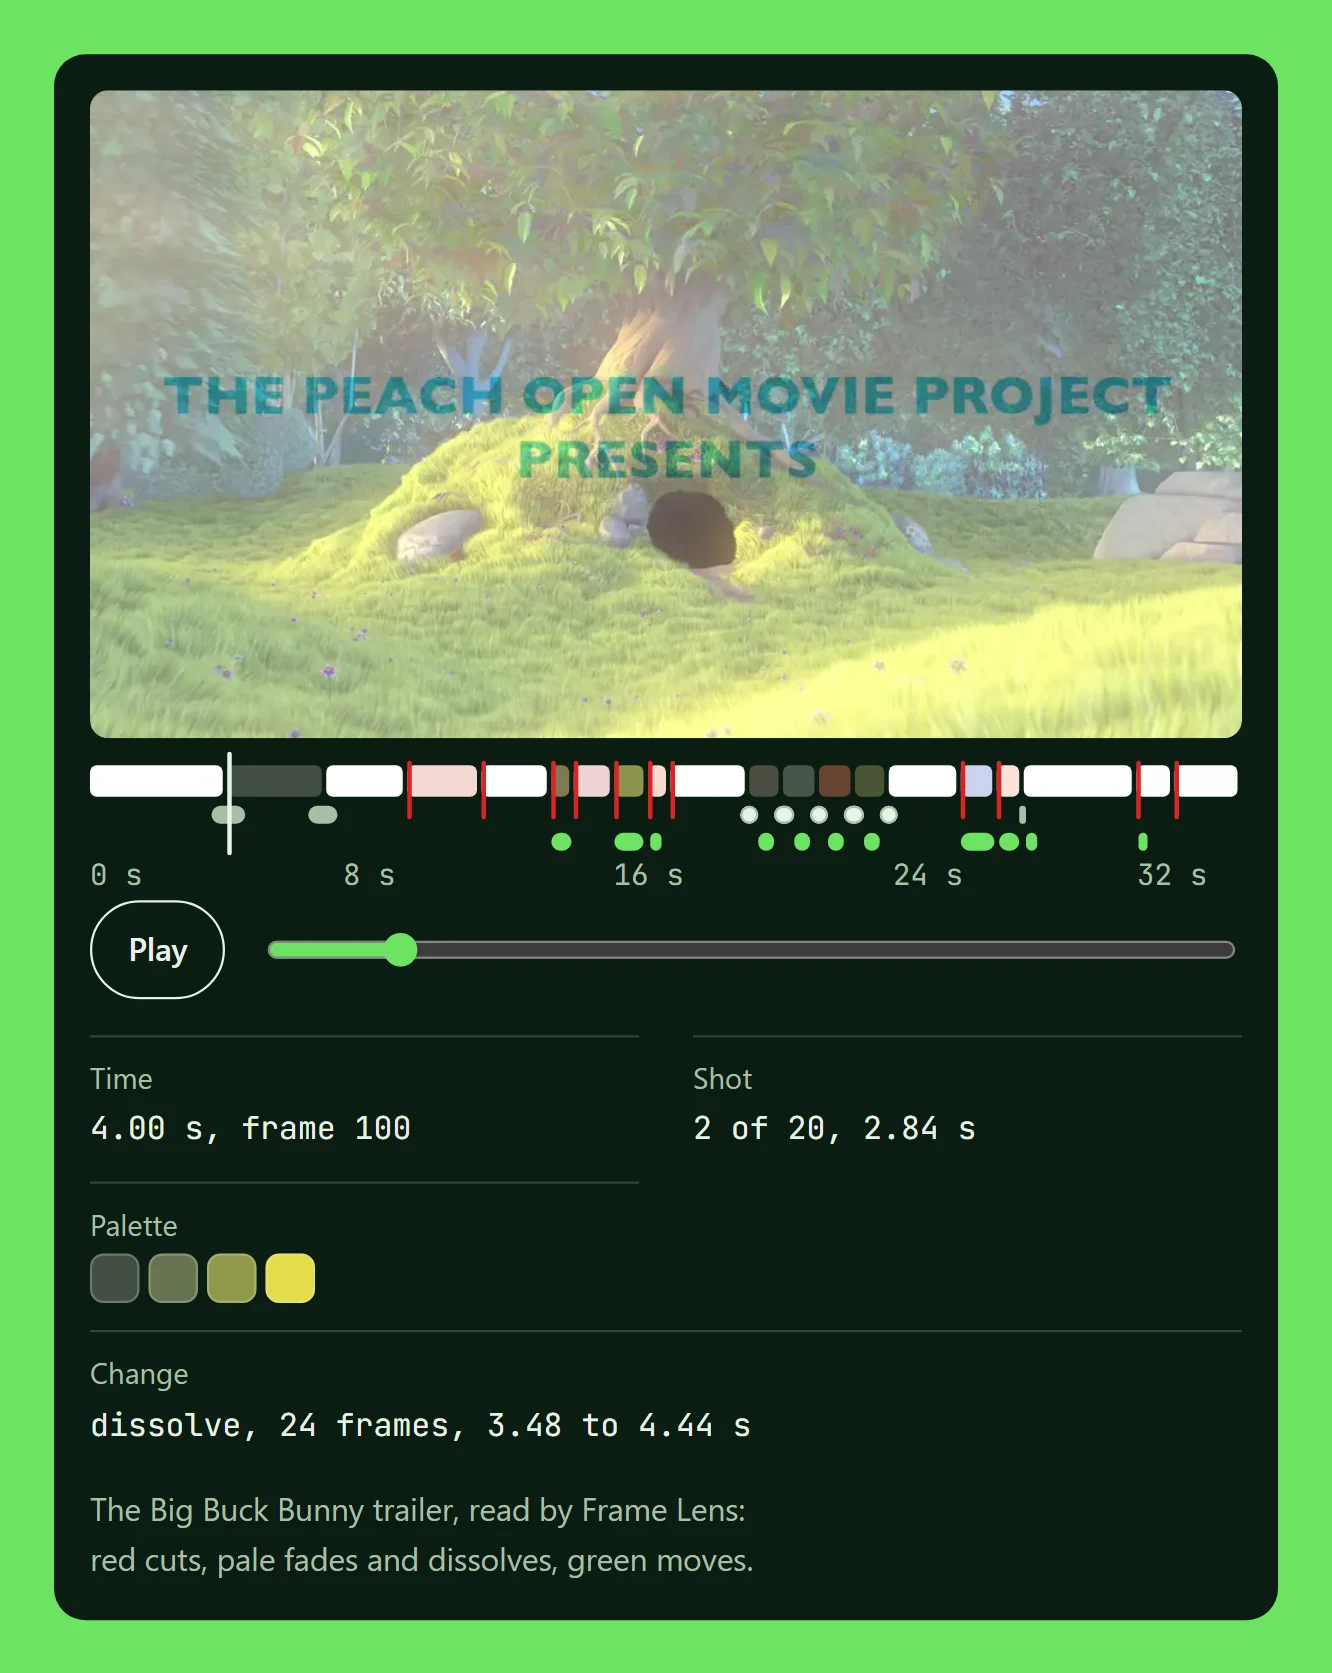
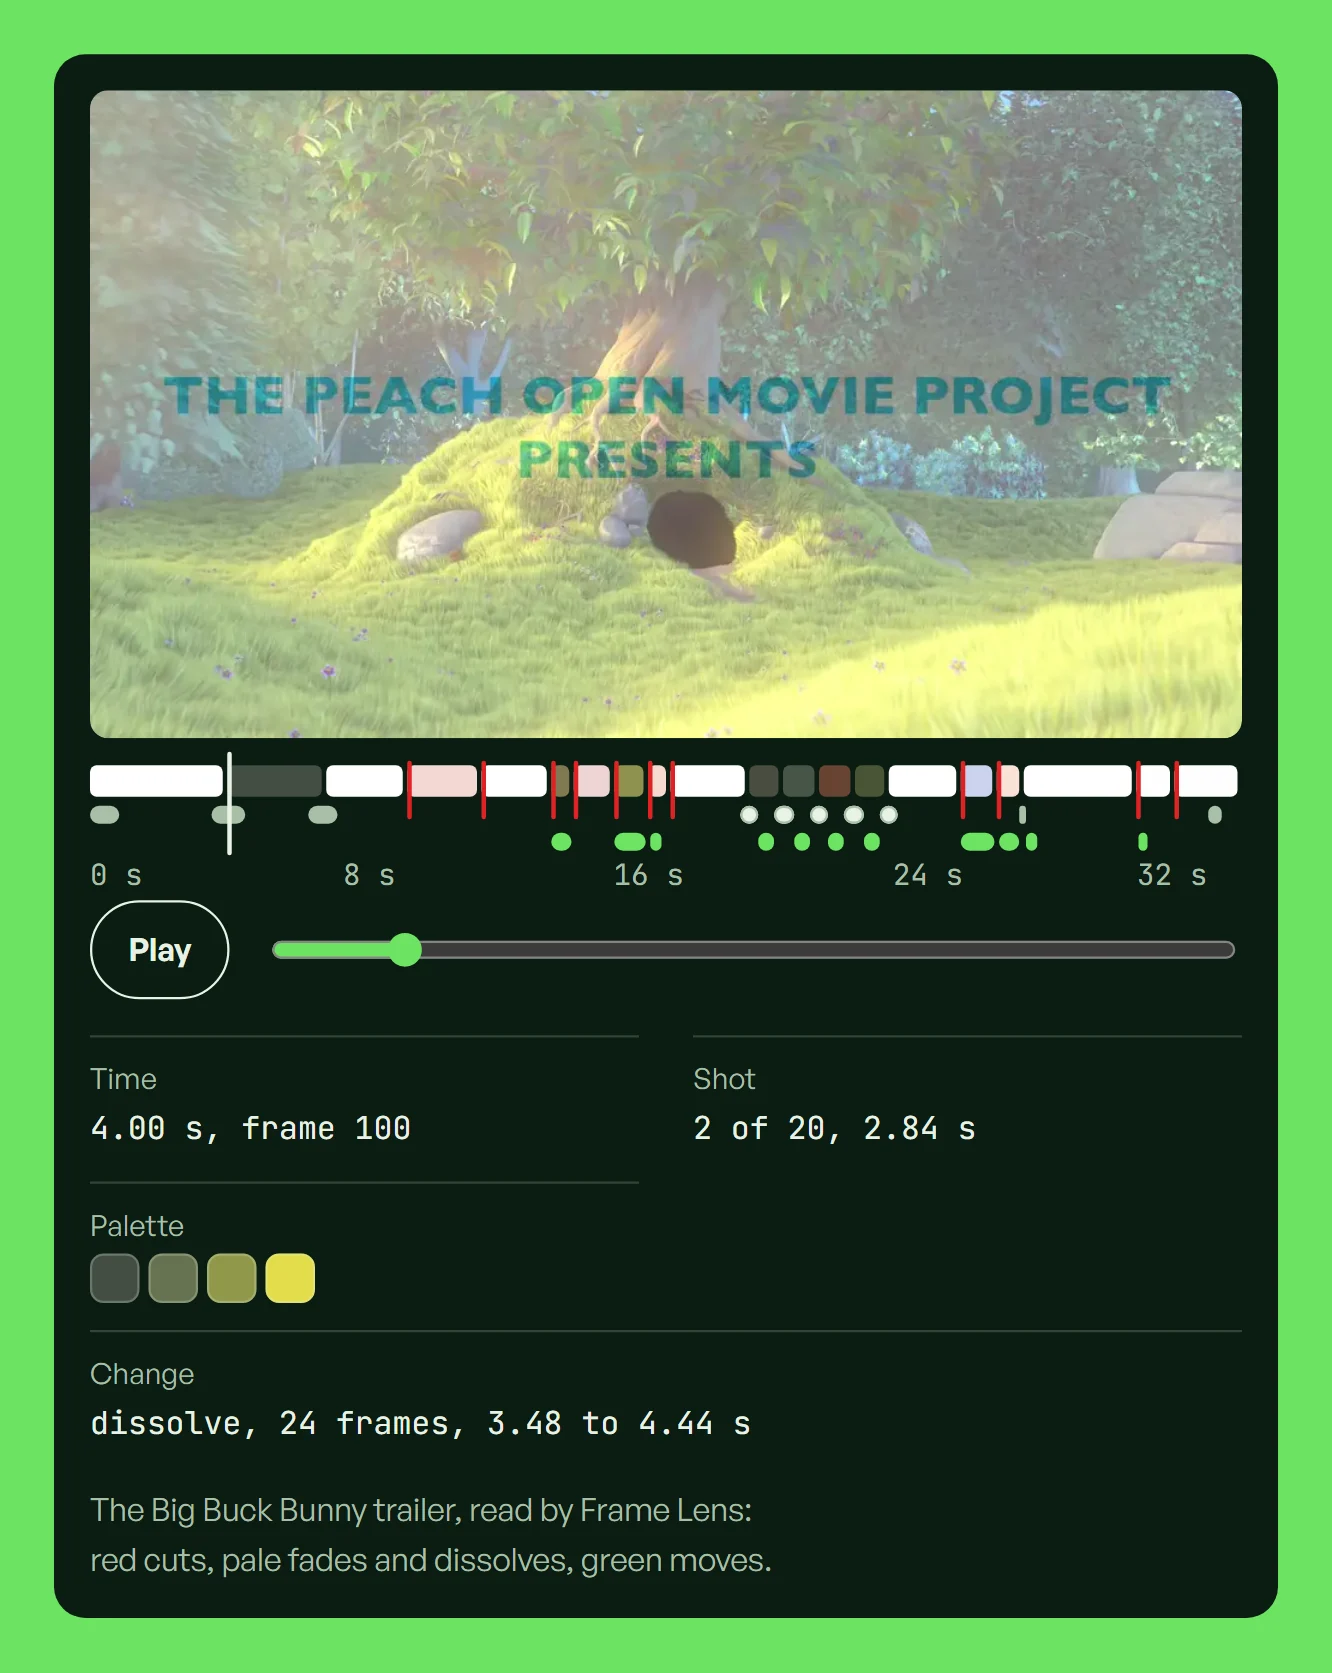
Site and README: trailer reading from the final 2.1 style (10 fades and dissolves)

diff --git a/docs/assets/bbb/reading.js b/docs/assets/bbb/reading.js
@@ -1,2 +1,2 @@
 /* Measured by Frame Lens 2.1 (style) from the Big Buck Bunny trailer, (c) Blender Foundation, CC BY 3.0. */
-window.FL_READING = {"fps":25,"duration":32.995,"step":0.5,"shots":[{"start":0,"end":3.92,"frames":98,"palette":["#FFFFFF","#7CD5F7","#AAE1F6","#D6EEF9"]},{"start":3.92,"end":6.76,"frames":71,"palette":["#434E43","#677251","#8F984B","#E2DD4A"]},{"start":6.76,"end":9.08,"frames":58,"palette":["#FFFFFF","#63C8EE","#95D8F1","#C8EBF8"]},{"start":9.08,"end":11.2,"frames":53,"palette":["#F3D7D4","#E2D64A","#A19C44","#BEB49F"]},{"start":11.2,"end":13.2,"frames":50,"palette":["#FFFFFF","#69CBF0","#96D9F2","#C7EBF8"]},{"start":13.2,"end":13.88,"frames":17,"palette":["#817953","#9D965F","#ECD3CF","#D5B785"]},{"start":13.88,"end":15,"frames":28,"palette":["#EED4D3","#E3D74A","#B9AE76","#98934B"]},{"start":15,"end":16,"frames":25,"palette":["#8D924E","#897960","#C0A98A","#EFD4C9"]},{"start":16,"end":16.6,"frames":15,"palette":["#F5D9CF","#C1C1EF","#BCB1A0","#979571"]},{"start":16.6,"end":18.88,"frames":57,"palette":["#FEFFFF","#7CD0EF","#59C3EB","#A7E0F6"]},{"start":18.88,"end":19.88,"frames":25,"palette":["#484D40","#6F7561","#969E80","#21281D"]},{"start":19.88,"end":20.88,"frames":25,"palette":["#475547","#6E715D","#29342F","#988F73"]},{"start":20.88,"end":21.88,"frames":25,"palette":["#674432","#342B20","#8C5D45","#A77F5C"]},{"start":21.88,"end":22.88,"frames":25,"palette":["#495536","#303324","#627546","#839F5A"]},{"start":22.88,"end":24.92,"frames":51,"palette":["#FFFFFF","#B1D9F4","#4CBBE9","#C08F9E"]},{"start":24.92,"end":26,"frames":27,"palette":["#CAD2EC","#B3A4A7","#8F7267","#574544"]},{"start":26,"end":26.72,"frames":18,"palette":["#F9E2D6","#CAC2C8","#A7998E","#757446"]},{"start":26.72,"end":29.96,"frames":81,"palette":["#FEFFFF","#2BB5E9","#1EA6D8","#7BD0EF"]},{"start":29.96,"end":31.04,"frames":27,"palette":["#FEFEFE","#8FC7EF","#A97D70","#EEA1DF"]},{"start":31.04,"end":32.995,"frames":49,"palette":["#FEFEFE","#71CBEE","#C9E1EC","#B9B9B9"]}],"transitions":[{"kind":"dissolve","start":3.48,"end":4.44,"frames":24,"at":3.92,"via":null,"direction":null},{"kind":"dissolve","start":6.24,"end":7.12,"frames":22,"at":6.76,"via":null,"direction":null},{"kind":"dip","start":18.6,"end":19.16,"frames":14,"at":18.88,"via":"black","direction":null},{"kind":"dip","start":19.6,"end":20.16,"frames":14,"at":19.88,"via":"black","direction":null},{"kind":"dip","start":20.6,"end":21.16,"frames":14,"at":20.88,"via":"black","direction":null},{"kind":"dip","start":21.6,"end":22.16,"frames":14,"at":21.88,"via":"black","direction":null},{"kind":"dip","start":22.6,"end":23.16,"frames":14,"at":22.88,"via":"black","direction":null},{"kind":"dip","start":26.64,"end":26.84,"frames":5,"at":26.72,"via":"white","direction":null}],"cuts":[9.08,11.2,13.2,13.88,15,16,16.6,24.92,26,29.96,31.04],"events":[{"start":13.24,"end":13.8,"frames":14,"easing":"ease-in-out","curve":"cubic-bezier(0.65, 0, 0.35, 1)"},{"start":15.04,"end":15.88,"frames":21,"easing":"ease-in-out","curve":"cubic-bezier(0.65, 0, 0.35, 1)"},{"start":16.04,"end":16.36,"frames":8,"easing":"ease-out","curve":"cubic-bezier(0.16, 1, 0.3, 1)"},{"start":19.16,"end":19.6,"frames":11,"easing":"linear","curve":"linear"},{"start":20.16,"end":20.6,"frames":11,"easing":"linear","curve":"linear"},{"start":21.16,"end":21.6,"frames":11,"easing":"linear","curve":"linear"},{"start":22.16,"end":22.6,"frames":11,"easing":"linear","curve":"linear"},{"start":24.96,"end":25.92,"frames":24,"easing":"ease-out","curve":"cubic-bezier(0.16, 1, 0.3, 1)"},{"start":26.04,"end":26.64,"frames":15,"easing":"ease-in","curve":"cubic-bezier(0.7, 0, 0.84, 0)"},{"start":26.84,"end":26.96,"frames":3,"easing":"linear","curve":"linear"},{"start":30,"end":30.24,"frames":6,"easing":"ease-in","curve":"cubic-bezier(0.7, 0, 0.84, 0)"}],"rhythm":{"cuts":11,"cutsPerMinute":20,"transitions":8,"meanShotSeconds":1.65,"medianShotSeconds":1.1,"movesPerMinute":20}};
+window.FL_READING = {"fps":25,"duration":32.995,"step":0.5,"shots":[{"start":0,"end":3.92,"frames":98,"palette":["#FFFFFF","#79D5F7","#A4E0F6","#CEEDF9"]},{"start":3.92,"end":6.76,"frames":71,"palette":["#434E43","#677251","#8F984B","#E2DD4A"]},{"start":6.76,"end":9.08,"frames":58,"palette":["#FFFFFF","#63C8EE","#95D8F1","#C8EBF8"]},{"start":9.08,"end":11.2,"frames":53,"palette":["#F3D7D4","#E2D64A","#A19C44","#BEB49F"]},{"start":11.2,"end":13.2,"frames":50,"palette":["#FFFFFF","#69CBF0","#96D9F2","#C7EBF8"]},{"start":13.2,"end":13.88,"frames":17,"palette":["#817953","#9D965F","#ECD3CF","#D5B785"]},{"start":13.88,"end":15,"frames":28,"palette":["#EED4D3","#E3D74A","#B9AE76","#98934B"]},{"start":15,"end":16,"frames":25,"palette":["#8D924E","#897960","#C0A98A","#EFD4C9"]},{"start":16,"end":16.6,"frames":15,"palette":["#F5D9CF","#C1C1EF","#BCB1A0","#979571"]},{"start":16.6,"end":18.88,"frames":57,"palette":["#FEFFFF","#7CD0EF","#59C3EB","#A7E0F6"]},{"start":18.88,"end":19.88,"frames":25,"palette":["#484D40","#6F7561","#969E80","#21281D"]},{"start":19.88,"end":20.88,"frames":25,"palette":["#475547","#6E715D","#29342F","#988F73"]},{"start":20.88,"end":21.88,"frames":25,"palette":["#674432","#342B20","#8C5D45","#A77F5C"]},{"start":21.88,"end":22.88,"frames":25,"palette":["#495536","#303324","#627546","#839F5A"]},{"start":22.88,"end":24.92,"frames":51,"palette":["#FFFFFF","#B1D9F4","#4CBBE9","#C08F9E"]},{"start":24.92,"end":26,"frames":27,"palette":["#CAD2EC","#B3A4A7","#8F7267","#574544"]},{"start":26,"end":26.72,"frames":18,"palette":["#F9E2D6","#CAC2C8","#A7998E","#757446"]},{"start":26.72,"end":29.96,"frames":81,"palette":["#FEFFFF","#2BB5E9","#1EA6D8","#7BD0EF"]},{"start":29.96,"end":31.04,"frames":27,"palette":["#FEFEFE","#8FC7EF","#A97D70","#EEA1DF"]},{"start":31.04,"end":32.995,"frames":49,"palette":["#FEFEFE","#71CBEE","#C9E1EC","#B9B9B9"]}],"transitions":[{"kind":"fade-in","start":0,"end":0.84,"frames":21,"at":0,"via":"white","direction":null},{"kind":"dissolve","start":3.48,"end":4.44,"frames":24,"at":3.92,"via":null,"direction":null},{"kind":"dissolve","start":6.24,"end":7.12,"frames":22,"at":6.76,"via":null,"direction":null},{"kind":"dip","start":18.6,"end":19.16,"frames":14,"at":18.88,"via":"black","direction":null},{"kind":"dip","start":19.6,"end":20.16,"frames":14,"at":19.88,"via":"black","direction":null},{"kind":"dip","start":20.6,"end":21.16,"frames":14,"at":20.88,"via":"black","direction":null},{"kind":"dip","start":21.6,"end":22.16,"frames":14,"at":21.88,"via":"black","direction":null},{"kind":"dip","start":22.6,"end":23.16,"frames":14,"at":22.88,"via":"black","direction":null},{"kind":"dip","start":26.64,"end":26.84,"frames":5,"at":26.72,"via":"white","direction":null},{"kind":"fade-out","start":32.04,"end":32.44,"frames":10,"at":32.44,"via":"white","direction":null}],"cuts":[9.08,11.2,13.2,13.88,15,16,16.6,24.92,26,29.96,31.04],"events":[{"start":13.24,"end":13.8,"frames":14,"easing":"ease-in-out","curve":"cubic-bezier(0.65, 0, 0.35, 1)"},{"start":15.04,"end":15.92,"frames":22,"easing":"ease-in-out","curve":"cubic-bezier(0.65, 0, 0.35, 1)"},{"start":16.04,"end":16.36,"frames":8,"easing":"ease-out","curve":"cubic-bezier(0.16, 1, 0.3, 1)"},{"start":19.16,"end":19.6,"frames":11,"easing":"linear","curve":"linear"},{"start":20.16,"end":20.6,"frames":11,"easing":"linear","curve":"linear"},{"start":21.16,"end":21.6,"frames":11,"easing":"linear","curve":"linear"},{"start":22.16,"end":22.6,"frames":11,"easing":"linear","curve":"linear"},{"start":24.96,"end":25.92,"frames":24,"easing":"ease-out","curve":"cubic-bezier(0.16, 1, 0.3, 1)"},{"start":26.04,"end":26.64,"frames":15,"easing":"ease-in","curve":"cubic-bezier(0.7, 0, 0.84, 0)"},{"start":26.84,"end":26.96,"frames":3,"easing":"linear","curve":"linear"},{"start":30,"end":30.24,"frames":6,"easing":"ease-in","curve":"cubic-bezier(0.7, 0, 0.84, 0)"}],"rhythm":{"cuts":11,"cutsPerMinute":20,"transitions":10,"meanShotSeconds":1.65,"medianShotSeconds":1.1,"movesPerMinute":20}};

diff --git a/docs/index.html b/docs/index.html
@@ -205,7 +205,7 @@
     <table class="readings">
       <thead><tr><th scope="col">Source</th><th scope="col">How</th><th scope="col">What Frame Lens read</th></tr></thead>
       <tbody>
-        <tr><th scope="row">The trailer above, a video file</th><td>From pixels</td><td class="num">20 shots, 11 cuts, 8 fades and dissolves</td></tr>
+        <tr><th scope="row">The trailer above, a video file</th><td>From pixels</td><td class="num">20 shots, 11 cuts, 10 fades and dissolves</td></tr>
         <tr><th scope="row">A live website, makkov-harness</th><td>From the browser</td><td class="num">328 animations, mostly 500 ms on cubic-bezier(0.16, 1, 0.3, 1)</td></tr>
         <tr><th scope="row">A Lottie file, our export read back</th><td>From keyframes</td><td>Its keyframes and curves, back exactly</td></tr>
         <tr><th scope="row">Rive files and Figma prototypes</th><td>From the file</td><td>Keyframes and transitions</td></tr>

diff --git a/scripts/site/banner.html b/scripts/site/banner.html
@@ -42,7 +42,7 @@
         <span class="cut" style="left: calc(50% - 5px)"></span>
         <span class="cut" style="left: calc(83.333% - 5px)"></span>
       </div>
-      <div class="reading"><span class="rec">● cut 9.08 s, frame 227</span><span><b>11 cuts</b></span><span>8 fades and dissolves</span><span>20 shots at 25 fps</span></div>
+      <div class="reading"><span class="rec">● cut 9.08 s, frame 227</span><span><b>11 cuts</b></span><span>10 fades and dissolves</span><span>20 shots at 25 fps</span></div>
     </div>
     <div class="bottom"><span class="cmd">npx -y framelens init</span><span class="targets">Cuts · easing · colour · beats → HyperFrames, Remotion, CSS, AE, Lottie</span></div>
   </div>

diff --git a/README.md b/README.md
@@ -1,5 +1,5 @@
 <p align="center">
-  <a href="https://makkov-design.github.io/framelens/"><img src="docs/assets/readme/banner.png" width="100%" alt="Frame Lens: video your agent can measure. A strip of Big Buck Bunny trailer frames with red cut marks and the reading: cut at 9.08 s, frame 227; 11 cuts, 8 fades and dissolves, 20 shots at 25 fps."></a>
+  <a href="https://makkov-design.github.io/framelens/"><img src="docs/assets/readme/banner.png" width="100%" alt="Frame Lens: video your agent can measure. A strip of Big Buck Bunny trailer frames with red cut marks and the reading: cut at 9.08 s, frame 227; 11 cuts, 10 fades and dissolves, 20 shots at 25 fps."></a>
 </p>
 
 <h1 align="center">Frame Lens</h1>
@@ -50,7 +50,7 @@ from where the square really was on any frame, grade `exact`. A spring of stiffn
 [scripts/demo/CHECK.md](scripts/demo/CHECK.md).
 
 On the 33-second Big Buck Bunny trailer it finds **11 cuts to the frame** (9.08 s, 11.20 s, 13.20 s, 13.88 s,
-15.00 s, 16.00 s, 16.60 s, 24.92 s, 26.00 s, 29.96 s, 31.04 s), **8 fades and dissolves** with their length (the
+15.00 s, 16.00 s, 16.60 s, 24.92 s, 26.00 s, 29.96 s, 31.04 s), **10 fades and dissolves** with their length (the
 opening dissolve runs 24 frames, 3.48–4.44 s), and 20 shots at 25 fps with a palette each.
 
 - **Measured, not described.** Cuts on their exact frame, every move with its duration and curve, an OKLab palette per
@@ -83,7 +83,7 @@ Real Frame Lens readings from the [website](https://makkov-design.github.io/fram
 
 <img src="docs/assets/readme/export.webp" alt="The measured move in five renderers: dots where the square was on each frame on the fitted curve, next to the CSS export with cubic-bezier(0.2312, 0.9511, 0.3843, 0.9964)">
 
-<img src="docs/assets/readme/readings.webp" alt="Table: the trailer read from pixels, 20 shots, 11 cuts, 8 fades and dissolves; a live website read from the browser, 328 animations, mostly 500 ms on cubic-bezier(0.16, 1, 0.3, 1); a Lottie file, our export read back from keyframes exactly; Rive files and Figma prototypes read from the file; YouTube and most video sites through a pinned yt-dlp">
+<img src="docs/assets/readme/readings.webp" alt="Table: the trailer read from pixels, 20 shots, 11 cuts, 10 fades and dissolves; a live website read from the browser, 328 animations, mostly 500 ms on cubic-bezier(0.16, 1, 0.3, 1); a Lottie file, our export read back from keyframes exactly; Rive files and Figma prototypes read from the file; YouTube and most video sites through a pinned yt-dlp">
 
 ## Quick start
 
